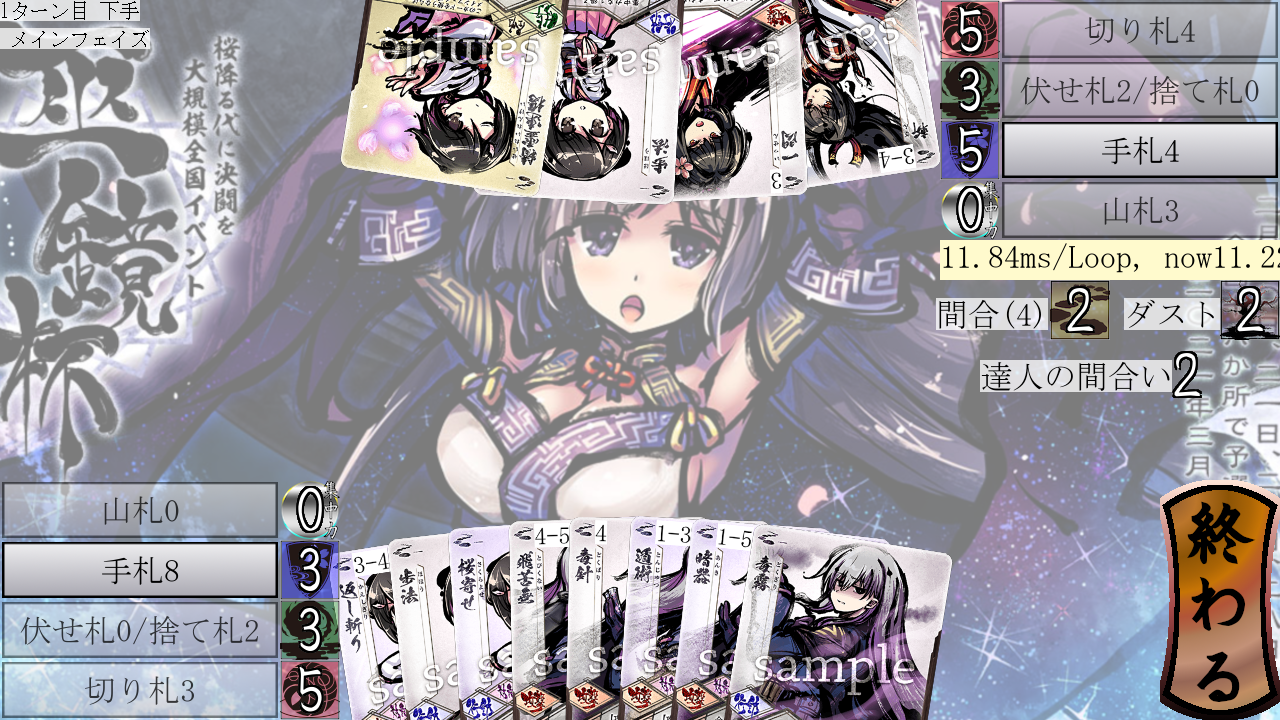
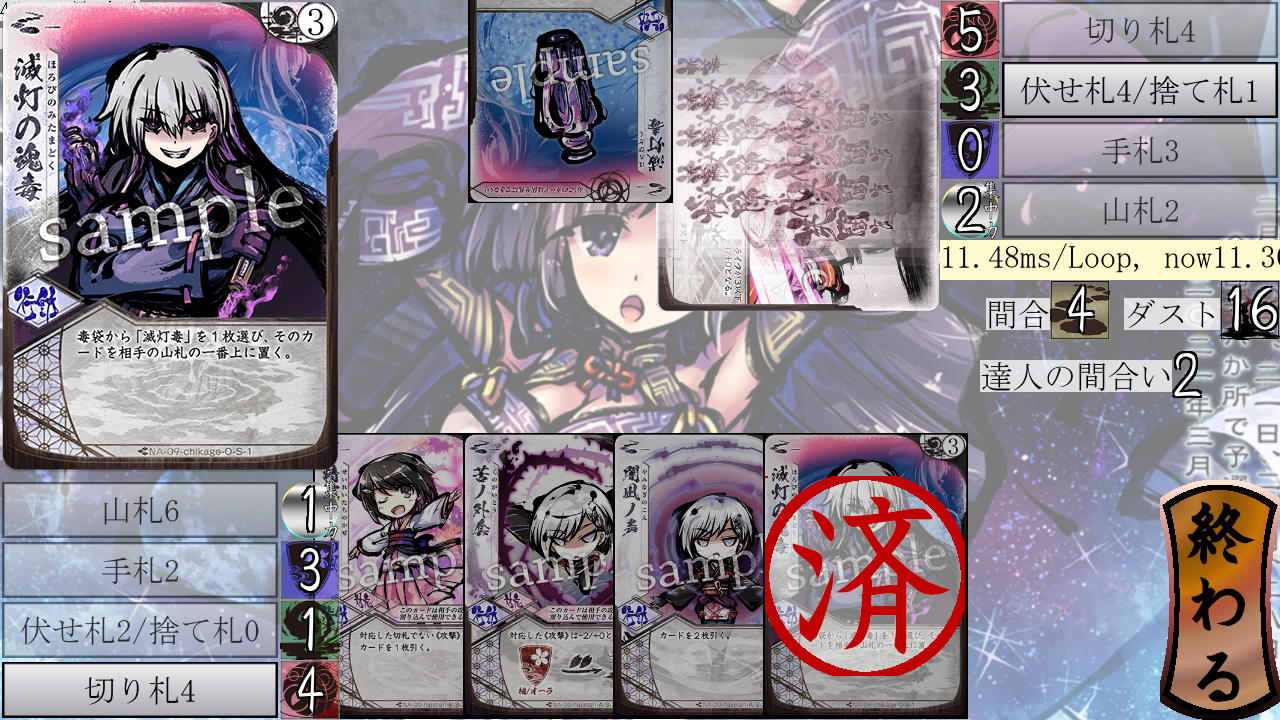
J742:滅灯の魂毒を実装

diff --git a/mod/mikoto.py b/mod/mikoto.py
@@ -71,10 +71,10 @@ class Mikoto():
     def _simote_make(self) -> None:
         from kaiketus import m00a, m00b
         # self.m_params.has_yukihi = True
-        from kaiketus.m09o import p_1, p_2, p_3, p_4, n_1, n_2, n_3, n_4, n_5, n_6, n_7#, s_1, s_2, s_3, s_4
+        from kaiketus.m09o import p_1, p_2, p_3, p_4, n_1, n_2, n_3, n_4, n_5, n_6, n_7, s_1#, s_2, s_3, s_4
         hands = [m00b.n_4, m00b.n_5, m00b.n_6, n_1, n_2, n_3, n_4, n_5, n_6, n_7]
         # hands = [n_1, n_2]#, n_3, n_4, n_5, n_6, n_7]
-        trumps = [m00b.s_3, m00a.s_3, m00a.s_2]#, s_1, s_2, s_3, s_4]
+        trumps = [m00b.s_3, m00a.s_3, m00a.s_2, s_1]#, s_2, s_3, s_4]
         self.misiyou = yamahuda_factory.maid_by_cards(cards=[p_1, p_2, p_3, p_4, p_4], hoyuusya=self.hoyuusya)
         self.yamahuda = yamahuda_factory.maid_by_cards(cards=[], hoyuusya=self.hoyuusya)
         self.tehuda = tehuda_factory.maid_by_cards(cards=hands, hoyuusya=self.hoyuusya)

diff --git a/kaiketus/m09o.py b/kaiketus/m09o.py
@@ -156,3 +156,12 @@ n_6 = suki_card(megami=MG_TIKAGE, img=img_card("o_n_6"), name="抜き足", cond=
 
 n_7 = Card(megami=MG_TIKAGE, img=img_card("o_n_7"), name="泥濘", cond=auto_di, type=CT_HUYO,
     osame=int_di(2), cfs=[ScalarCorrection(name="泥濘", cond=enemy_cf, scalar=SC_DEINEI, value=1)])
+
+def _kouka_s_1(delivery: Delivery, hoyuusya: int) -> None:
+    horobi_doku = next(huda for huda in delivery.taba(hoyuusya, TC_MISIYOU)\
+        if isinstance(huda, Huda) and huda.card.name == "滅灯毒")
+    delivery.send_huda_to_ryouiki(huda=horobi_doku, is_mine=False, taba_code=TC_YAMAHUDA, is_top=True)
+
+s_1 = Card(megami=MG_TIKAGE, img=img_card("o_s_1"), name="滅灯の魂毒", cond=auto_di, type=CT_KOUDOU,
+    kouka=_kouka_s_1, kirihuda=True, flair=int_di(3))
+
